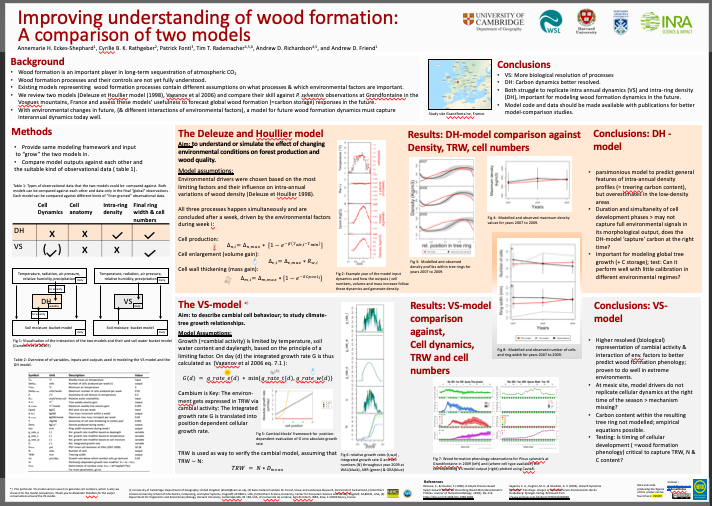
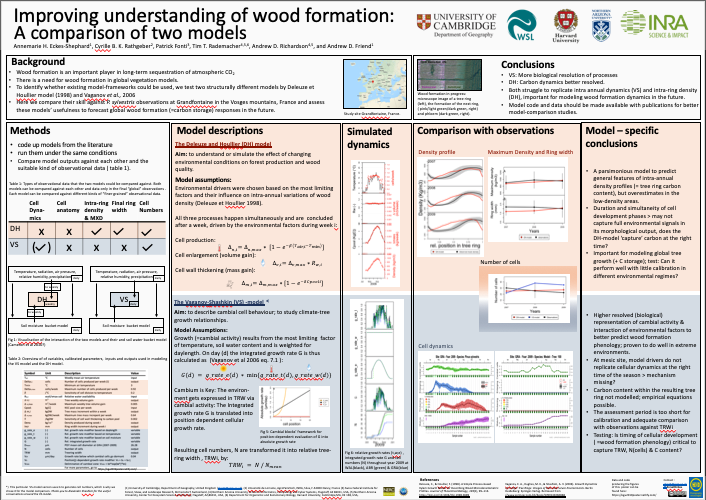
update layout and figures

diff --git a/_site/about.html b/_site/about.html
@@ -693,44 +693,59 @@ Wood formation phenology observations for Pinus sylvestris at Grandfontaine in 2
 <pre class="r"><code>  load(file=&#39;data/GRA_PISY_TRW_MXD_NR.lst.RData&#39;)
   #unlist(GRA_PSY_TRW_MXD_NR.lst[[1]]) doesn&#39;t work?!
 
-#mean cell size across all years for PISY at GRA
-D_MEAN= 26.28087
 
   TRW_table     &lt;- GRA_PSY_TRW_MXD_NR.lst$TRW_table
   MXD_table     &lt;- GRA_PSY_TRW_MXD_NR.lst$MXD_table
   cell_nr_table &lt;- GRA_PSY_TRW_MXD_NR.lst$cell_nr_table
 
   cell_nr_table$VS_model &lt;- as.numeric(loc_Grandfontaine_650m$cell_numbers)
-  TRW_table$VS_model &lt;- as.numeric(D_MEAN*loc_Grandfontaine_650m$cell_numbers/1000) # change units from µm to mm
 
   # plot
-  par(mfrow=c(4,1),mar=c(0,4.5,0,30),oma=c(0,2.7,4,0))
+  par(mfrow=c(4,1),mar=c(0,4.5,0,45),oma=c(0,2.7,4,0))
 
   maxN&lt;-max(cell_nr_table$tot_cells_model,cell_nr_table$Mean)+max(cell_nr_table$Sd)+5
   minN&lt;-min(cell_nr_table$tot_cells_model,cell_nr_table$Mean)-max(cell_nr_table$Sd)-5
 
-  plot(cell_nr_table$years,cell_nr_table$tot_cells, lwd=2.3,col=&quot;red&quot;,type=&quot;o&quot;,xaxt=&#39;n&#39;,xlab=&quot;&quot;, ylab=&quot;&quot;,ylim=c(minN,maxN))
+  plot(cell_nr_table$years,cell_nr_table$tot_cells, lwd=2.3,col=&quot;red&quot;,type=&quot;o&quot;,xlab=&quot;&quot;, ylab=&quot;&quot;,ylim=c(minN,maxN))
   lines(cell_nr_table$years,cell_nr_table$Mean, lwd=2.3,col=&quot;black&quot;, type =&quot;o&quot;,xaxt=&#39;n&#39;,xlab=&quot;&quot;)
   segments(cell_nr_table$years,cell_nr_table$Mean-cell_nr_table$Sd,cell_nr_table$years,cell_nr_table$Mean+cell_nr_table$Sd)
-  lines(cell_nr_table$years,cell_nr_table$VS_model, lwd=2.3,col=&quot;grey&quot;, type =&quot;b&quot;,xaxt=&#39;n&#39;,xlab=&quot;&quot;)
+  lines(cell_nr_table$years,cell_nr_table$VS_model, lwd=2.3,col=&quot;medium blue&quot;, type =&quot;b&quot;,xaxt=&#39;n&#39;,xlab=&quot;&quot;)
   mtext(side=2, &quot;Number of cells&quot;,cex=1.2,line=3)
-  mtext(side=3,&quot;A&quot;,line=-2.2,adj=0)
+  mtext(side=1, &quot;Years&quot;,line=3,cex=1.4)
+  plot(1, type=&quot;n&quot;, axes=F, xlab=&quot;&quot;, ylab=&quot;&quot;)
+  legend(&quot;center&quot;, legend=c(&quot;DH-model&quot;,&quot;VS-model&quot;,&quot;Observations&quot;), cex=1,col=c(&quot;red&quot;,&quot;medium blue&quot;,&quot;black&quot;),fill=c(&quot;red&quot;,&quot;medium blue&quot;,&quot;black&quot;),horiz=TRUE)</code></pre>
+<div class="figure">
+<img src="about_files/figure-html/fig8%20-1.png" alt="Modelled and observed number of cells from 2007 to 2009 for both models." width="672" />
+<p class="caption">
+Modelled and observed number of cells from 2007 to 2009 for both models.
+</p>
+</div>
+<pre class="r"><code> # plot
+  par(mfrow=c(4,1),mar=c(0,4.5,0,45),oma=c(0,2.7,4,0))
 
+  maxD&lt;-max(MXD_table$Model+MXD_table$obs_stdev,MXD_table$obs+MXD_table$obs_stdev)+100
+  minD&lt;-min(MXD_table$Model-MXD_table$obs_stdev-100)
+  plot(MXD_table$years,MXD_table$Model, col=&quot;red&quot;,lwd=2.3,type=&quot;o&quot;, ylab=&quot;&quot;,ylim=c(minD,maxD),xaxt=&quot;n&quot;)
+  lines(MXD_table$years,MXD_table$obs, col=&quot;black&quot;,lwd=2.3, type =&quot;o&quot;,xaxt=&#39;n&#39;,xlab=&quot;&quot;, ylab=&quot;&quot;)
+  segments(MXD_table$years,MXD_table$obs-MXD_table$obs_stdev,MXD_table$years,MXD_table$obs+MXD_table$obs_stdev)
+  mtext(side=2, &quot;Maximum density \n (kg/m3)&quot;,cex=1.2,line=3)
+  mtext(side=3,&quot;A&quot;,line=-2.2,adj=0)
+  
   maxRW&lt;-max(TRW_table$TRW_model,TRW_table$TRW_obs)+max(TRW_table$TRW_obs_stdev)+0.2
   minRW&lt;-min(TRW_table$TRW_model,TRW_table$TRW_obs)-max(TRW_table$TRW_obs_stdev)-0.2
   plot(TRW_table$years,TRW_table$TRW_model,type=&quot;o&quot;,lwd=2.3,cex.lab=5, ylab=&quot;&quot;,col=&quot;red&quot;,ylim=c(minRW,maxRW),xlab=&quot;&quot;)
   lines(TRW_table$years,TRW_table$TRW_obs,lwd=2.3,type=&quot;o&quot;,col=&quot;black&quot;)
   segments(TRW_table$years,TRW_table$TRW_obs-TRW_table$TRW_obs_stdev,TRW_table$years,TRW_table$TRW_obs+TRW_table$TRW_obs_stdev)
   lines(TRW_table$years,TRW_table$VS_model, lwd=2.3,col=&quot;grey&quot;, type =&quot;b&quot;,xaxt=&#39;n&#39;,xlab=&quot;&quot;)
-  mtext(side=2, &quot;Ring width (mm)&quot;,cex=1.2,line=3)
+  mtext(side=2, &quot;Ring width \n (mm)&quot;,cex=1.2,line=3)
   mtext(side=3,&quot;B&quot;,line=-2.2,adj=0)
   mtext(side=1, &quot;Years&quot;,line=3,cex=1.4)
   plot(1, type=&quot;n&quot;, axes=F, xlab=&quot;&quot;, ylab=&quot;&quot;)
-  legend(&quot;center&quot;, legend=c(&quot;DH-model&quot;,&quot;VS-model&quot;,&quot;observations&quot;), cex=1,col=c(&quot;red&quot;,&quot;grey&quot;,&quot;black&quot;),fill=c(&quot;red&quot;,&quot;grey&quot;,&quot;black&quot;),horiz=TRUE)</code></pre>
+  legend(&quot;center&quot;, legend=c(&quot;DH-model&quot;,&quot;observations&quot;), cex=1,col=c(&quot;red&quot;,&quot;black&quot;),fill=c(&quot;red&quot;,&quot;black&quot;),horiz=TRUE)</code></pre>
 <div class="figure">
-<img src="about_files/figure-html/fig8%20-1.png" alt="Modelled and observed number of cells and ring width for years 2007 to 2009." width="672" />
+<img src="about_files/figure-html/fig9%20-1.png" alt="Modelled and observed ring width  and maximum density for years 2007 to 2009" width="672" />
 <p class="caption">
-Modelled and observed number of cells and ring width for years 2007 to 2009.
+Modelled and observed ring width and maximum density for years 2007 to 2009
 </p>
 </div>
 <p># Table 2</p>
@@ -859,48 +874,42 @@ Modelled and observed number of cells and ring width for years 2007 to 2009.
 <td>variable</td>
 </tr>
 <tr class="odd">
-<td><span class="math inline">\(D_{mean}\)</span></td>
-<td>µm</td>
-<td>Observed mean cell diameter across study years</td>
-<td>26.28087</td>
-</tr>
-<tr class="even">
 <td><span class="math inline">\(N\)</span></td>
 <td>cells</td>
 <td>Number of cells</td>
 <td>output</td>
 </tr>
-<tr class="odd">
+<tr class="even">
 <td><span class="math inline">\(TRW\)</span></td>
 <td>mm</td>
 <td>Treering width</td>
 <td>output</td>
 </tr>
-<tr class="even">
+<tr class="odd">
 <td>b9</td>
 <td>-</td>
 <td>exponential function of Vmin ( Vaganov et al 2011)</td>
 <td>0.045</td>
 </tr>
-<tr class="odd">
+<tr class="even">
 <td>b8</td>
 <td>-</td>
 <td>exponential function of Vmin ( Vaganov et al 2011)</td>
 <td>0.55</td>
 </tr>
-<tr class="even">
+<tr class="odd">
 <td>b5</td>
 <td>-</td>
 <td>exponential function of Vmin ( Vaganov et al 2011)</td>
 <td>1</td>
 </tr>
-<tr class="odd">
+<tr class="even">
 <td>b7</td>
 <td>-</td>
 <td>linear function (Camb50, parametersin CMB50)</td>
 <td>0.35</td>
 </tr>
-<tr class="even">
+<tr class="odd">
 <td>b6</td>
 <td>-</td>
 <td>linear function (Camb50, parametersin CMB50)</td>

diff --git a/_site/index.html b/_site/index.html
@@ -307,13 +307,13 @@ $(document).ready(function () {
 <p>The Abstract can be found on <a href="https://meetingorganizer.copernicus.org/EGU2019/EGU2019-17876.pdf" class="uri">https://meetingorganizer.copernicus.org/EGU2019/EGU2019-17876.pdf</a></p>
 <p>The poster can be viewed again here:</p>
 <div class="figure">
-<img src="Poster_V2.png" alt="Presented at EGU 2019, session" />
+<img src="Poster_V2" alt="Presented at EGU 2019, session" />
 <p class="caption">Presented at EGU 2019, session</p>
 </div>
 <div id="affiliations" class="section level2">
 <h2>Affiliations</h2>
 <ol style="list-style-type: decimal">
-<li>University of Cambridge, Department of Geography, United Kingdom (<a href="mailto:ahe24@cam.ac.uk">ahe24@cam.ac.uk</a>), (3) Swiss Federal Institute for Forest, Snow, and Landscape Research, Birmensdorf, Switzerland, (4) Northern Arizona University, School of Informatics, Computing, and Cyber Systems, Flagstaff, AZ 86011, USA, (5) Northern Arizona University, Center for Ecosystem Science and Society, Flagstaff, AZ,86011, USA, (6) Department for Organismic and Evolutionary Biology, Harvard University, Cambridge,MA, 02 138, USA, (2) Université de Lorraine, AgroParisTech, INRA, Silva, F-54000 Nancy, France</li>
+<li>University of Cambridge, Department of Geography, United Kingdom (<a href="mailto:ahe24@cam.ac.uk">ahe24@cam.ac.uk</a>),(2) Université de Lorraine, AgroParisTech, INRA, Silva, F-54000 Nancy, France, (3) Swiss Federal Institute for Forest, Snow, and Landscape Research, Birmensdorf, Switzerland, (4) Northern Arizona University, School of Informatics, Computing, and Cyber Systems, Flagstaff, AZ 86011, USA, (5) Northern Arizona University, Center for Ecosystem Science and Society, Flagstaff, AZ,86011, USA, (6) Department for Organismic and Evolutionary Biology, Harvard University, Cambridge,MA, 02 138, USA,</li>
 </ol>
 </div>
 
